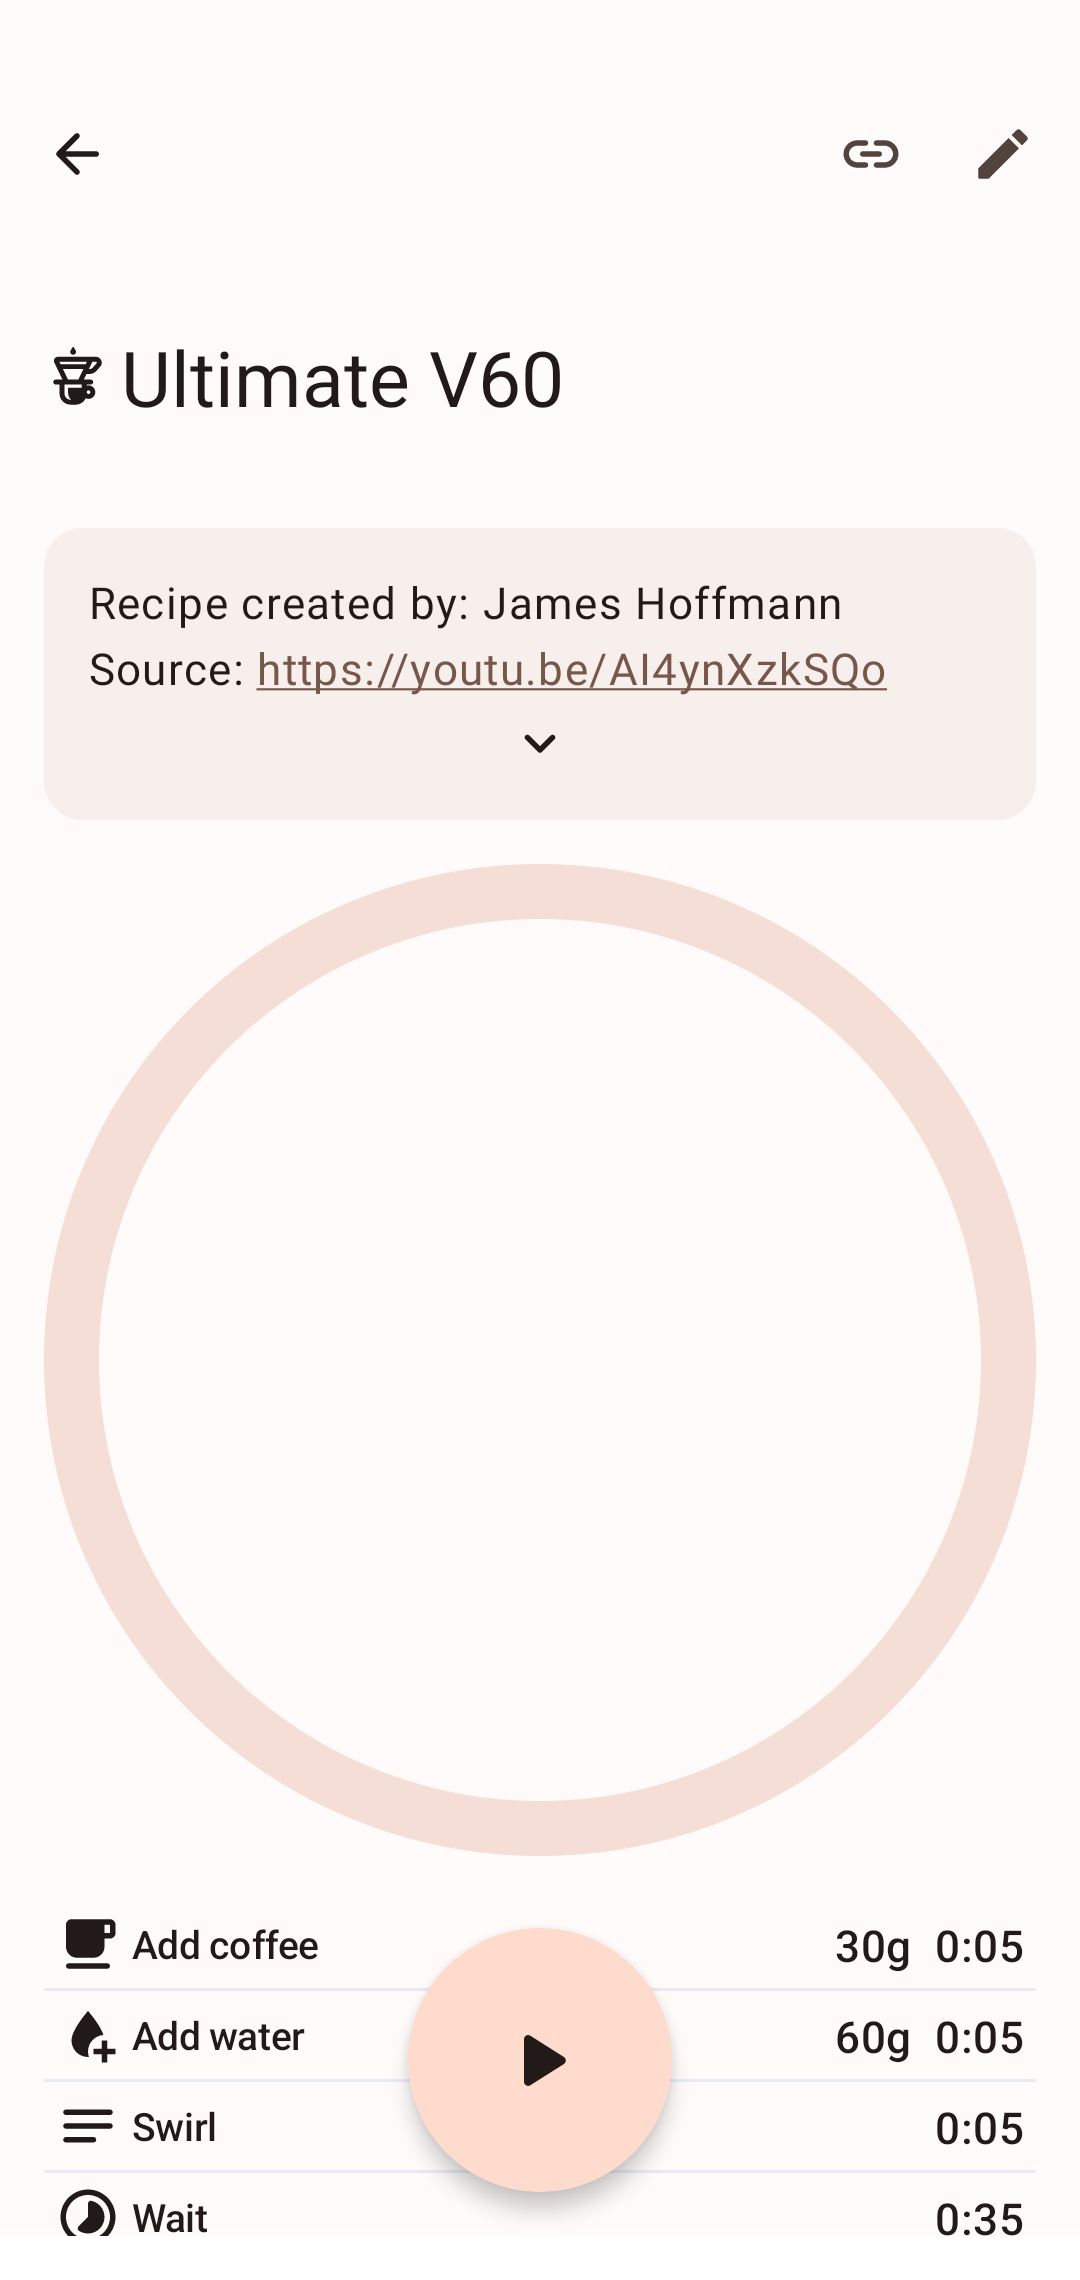
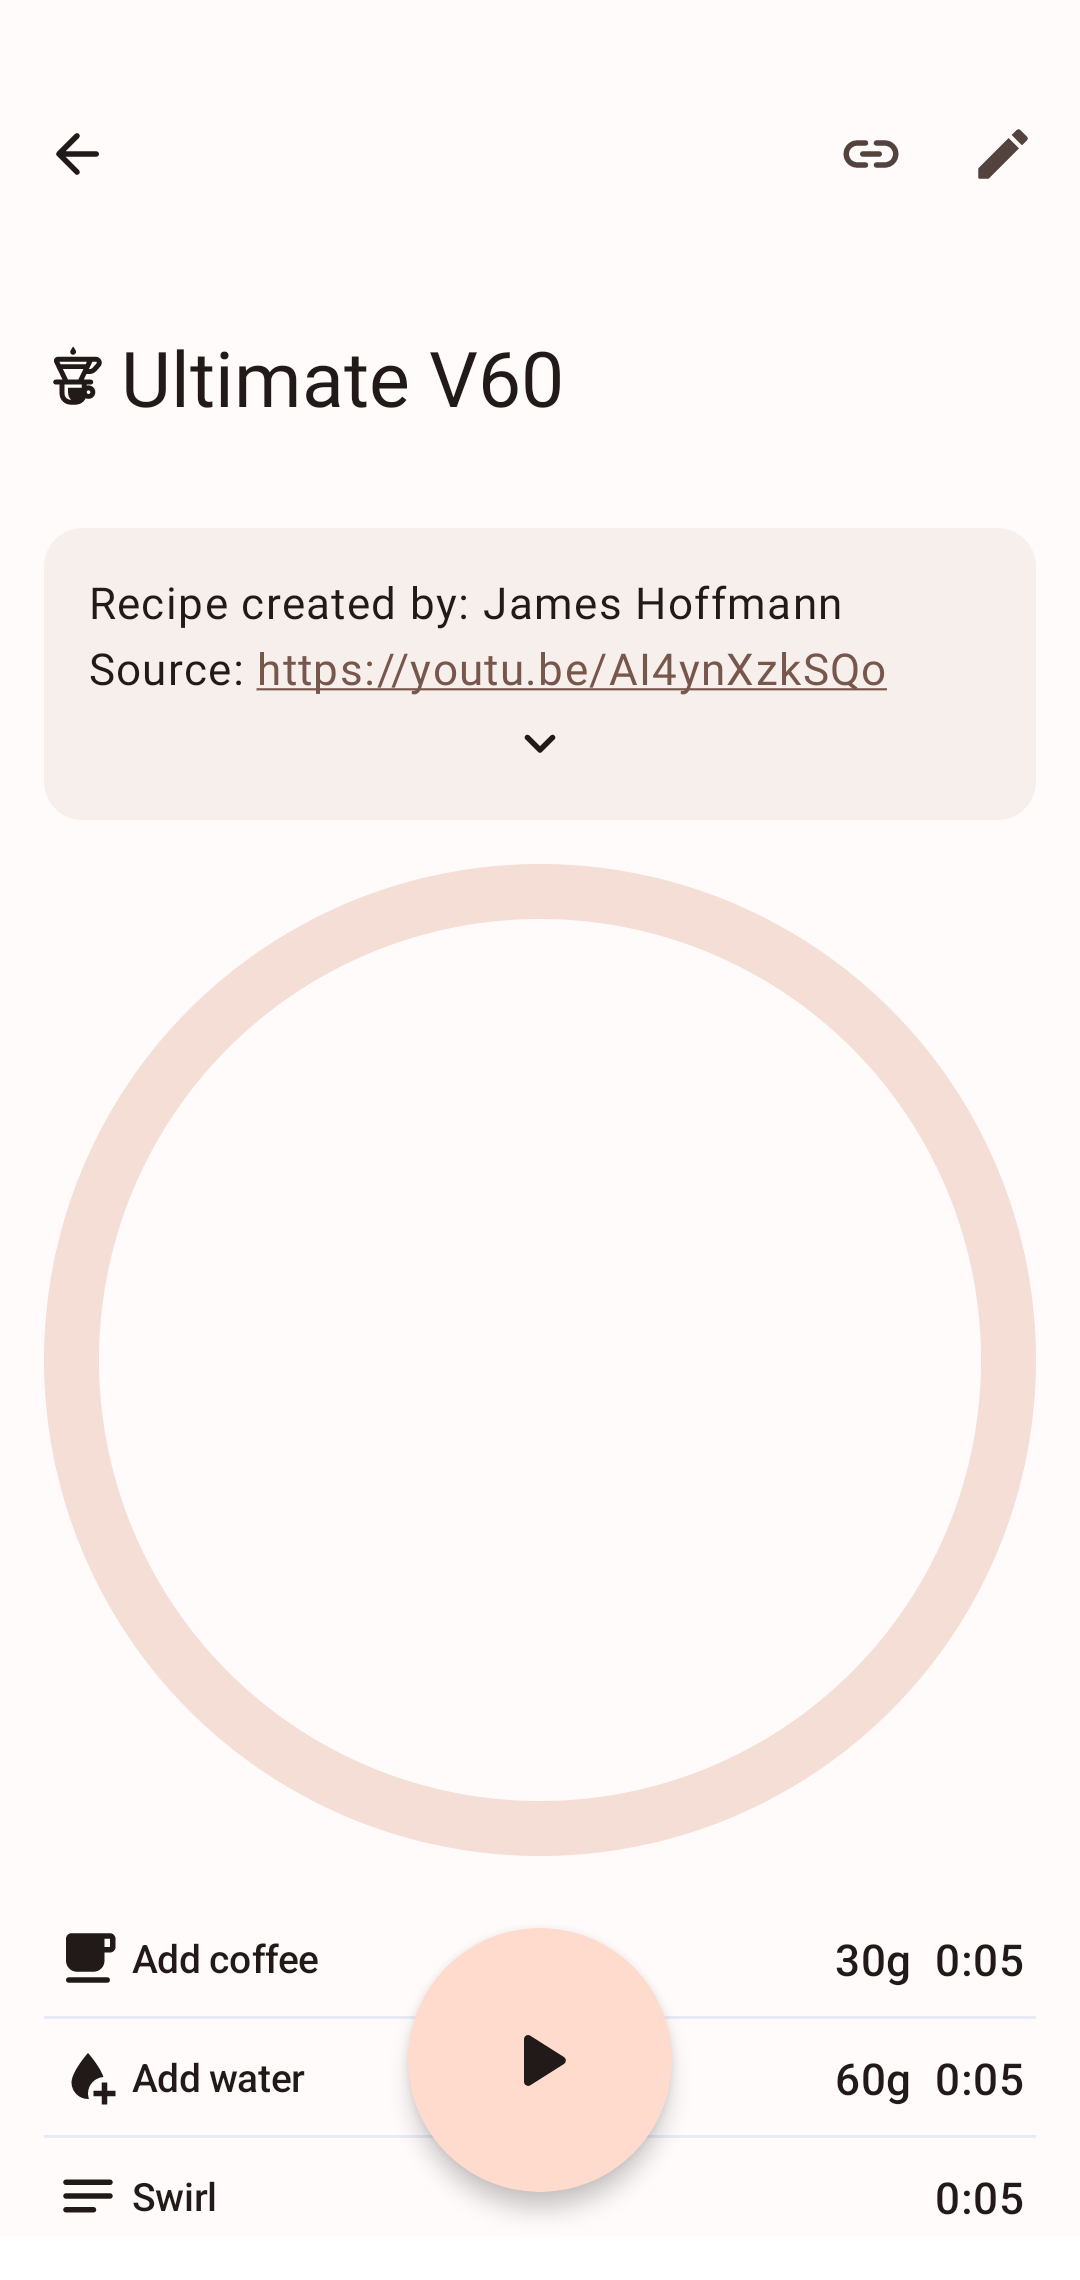
fix height of StepItem.kt

Changed region(s): [[0.0611, 0.8408, 0.3056, 0.9965], [0.7639, 0.8408, 0.9472, 0.9965]]

diff --git a/app/src/main/java/com/omelan/cofi/components/StepItem.kt b/app/src/main/java/com/omelan/cofi/components/StepItem.kt
@@ -34,6 +34,7 @@ fun StepListItem(
     onClick: ((Step) -> Unit)? = null
 ) {
     val constraintModifier = modifier
+        .heightIn(min = 42.dp)
         .animateContentSize()
         .fillMaxWidth()
         .padding(vertical = Spacing.small)
@@ -43,11 +44,7 @@ fun StepListItem(
             role = Role.Button,
             interactionSource = remember { MutableInteractionSource() },
             indication = rememberRipple(bounded = true),
-        ).apply {
-            if (onClick != null) {
-                heightIn(min = 42.dp)
-            }
-        }
+        )
 
     ConstraintLayout(
         modifier = constraintModifier
@@ -120,8 +117,8 @@ fun StepListItemPreview() {
         step = Step(
             id = 0,
             name = "Somebody once told me the world is gonna roll me I ain't the sharpest " +
-                "tool in the shed She was looking kind of dumb with her finger and her thumb " +
-                "In the shape of an \"L\" on her forehead",
+                    "tool in the shed She was looking kind of dumb with her finger and her thumb " +
+                    "In the shape of an \"L\" on her forehead",
             time = 35.toMillis(),
             type = StepType.WATER,
             value = 60,
